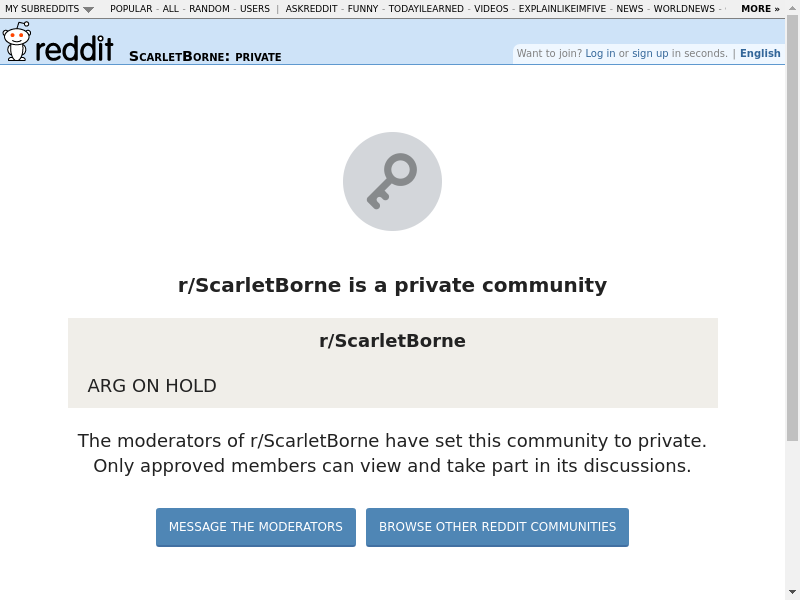
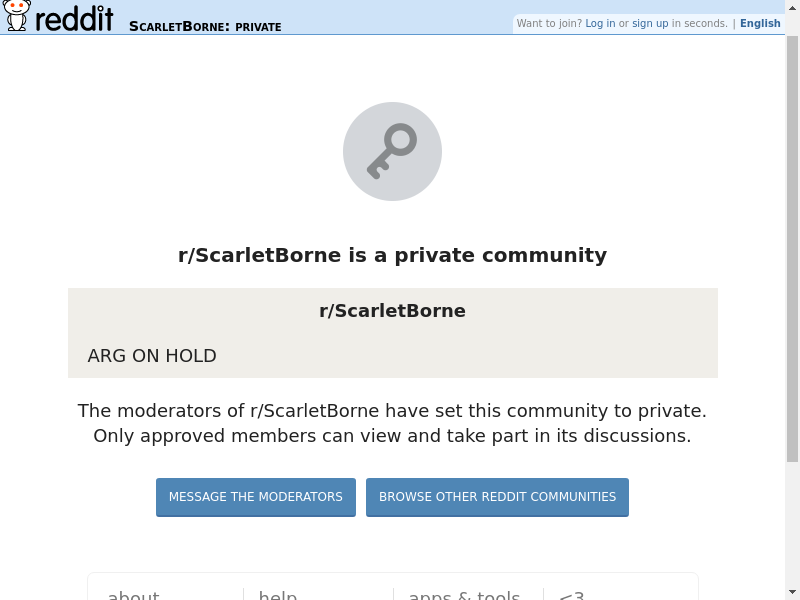
less reboot spam

diff --git a/main.py b/main.py
@@ -72,9 +72,9 @@ class MyClient(discord.Client):
             name='April Knights',
             url='https://www.youtube.com/watch?v=7FOETnVmpLM&t=970s'))
       print("Ready to record!")
-      channel = client.get_channel(april_channel)
-      message = "Is it getting hot in here? ||Or is that just Gryph :wink:||"
-      await channel.send(message)
+      #channel = client.get_channel(april_channel)
+      #message = "Is it getting hot in here? ||Or is that just Gryph :wink:||"
+      #await channel.send(message)
 
     async def check_kairos(self):
         await self.wait_until_ready()
@@ -83,6 +83,7 @@ class MyClient(discord.Client):
             screen_kairos = "https://old.reddit.com/r/ThePathOfKairos"
             try:
                 driver.get(screen_kairos)
+                driver.execute_script("window.scrollBy(0,30)","")
                 driver.save_screenshot('kairos_1.png')
             except:
                 print("Owo what's this?")
@@ -105,7 +106,7 @@ class MyClient(discord.Client):
                 driver.save_screenshot('kairos_2.png')
                 msg = "New __**Path of Kairos**__ change detected:" + imgur_link
                 await channel.send(msg)
-            await asyncio.sleep(60)
+            await asyncio.sleep(20)
 
 #check snekbait
     async def check_snekbait(self):
@@ -115,6 +116,7 @@ class MyClient(discord.Client):
             screen_snekbait = "https://old.reddit.com/r/snekbait"
             try:
                 driver.get(screen_snekbait)
+                driver.execute_script("window.scrollBy(0,30)","")
                 driver.save_screenshot('snekbait_1.png')
             except:
                 print("Owo what's this?")
@@ -138,7 +140,7 @@ class MyClient(discord.Client):
                 driver.save_screenshot('snekbait_2.png')
                 msg = "OwO new snekbait message detected: " + imgur_link
                 await channel.send(msg)
-            await asyncio.sleep(60)
+            await asyncio.sleep(20)
 
 #check scarletborne
     async def check_scarletborne(self):
@@ -148,6 +150,7 @@ class MyClient(discord.Client):
             screen_scarletborne = "https://old.reddit.com/r/scarletborne"
             try:
                 driver.get(screen_scarletborne)
+                driver.execute_script("window.scrollBy(0,30)","")
                 driver.save_screenshot('scarletborne_1.png')
             except:
                 print("Owo what's this?")
@@ -170,7 +173,7 @@ class MyClient(discord.Client):
                 driver.save_screenshot('scarletborne_2.png')
                 msg = "New scarletborne message detected:" + imgur_link
                 await channel.send(msg)
-            await asyncio.sleep(60)
+            await asyncio.sleep(20)
 
 #check CHAOSCMD
     async def check_CHAOSCMD(self):
@@ -180,6 +183,7 @@ class MyClient(discord.Client):
             screen_CHAOSCMD = "https://old.reddit.com/r/CHAOSCMD"
             try:
                 driver.get(screen_CHAOSCMD)
+                driver.execute_script("window.scrollBy(0,30)","")
                 driver.save_screenshot('CHAOSCMD_1.png')
             except:
                 print("Owo what's this?")
@@ -202,7 +206,7 @@ class MyClient(discord.Client):
                 driver.save_screenshot('CHAOSCMD_2.png')
                 msg = "New CHAOSCMD message detected:" + imgur_link
                 await channel.send(msg)
-            await asyncio.sleep(60)
+            await asyncio.sleep(20)
 
     async def on_message(self, message):
         if message.author == client.user:
@@ -213,6 +217,7 @@ class MyClient(discord.Client):
                 return
             screenshot_url2 = "https://www.reddit.com/r/ThePathOfKairos"
             driver.get(screenshot_url2)
+            driver.execute_script("window.scrollBy(0,30)","")
             driver.save_screenshot('screenshot.png')
             imgur_image = imgClient.upload_from_path('screenshot2.png', config=uploadConfig, anon=False)
             imgur_link = str(imgur_image['link'])
